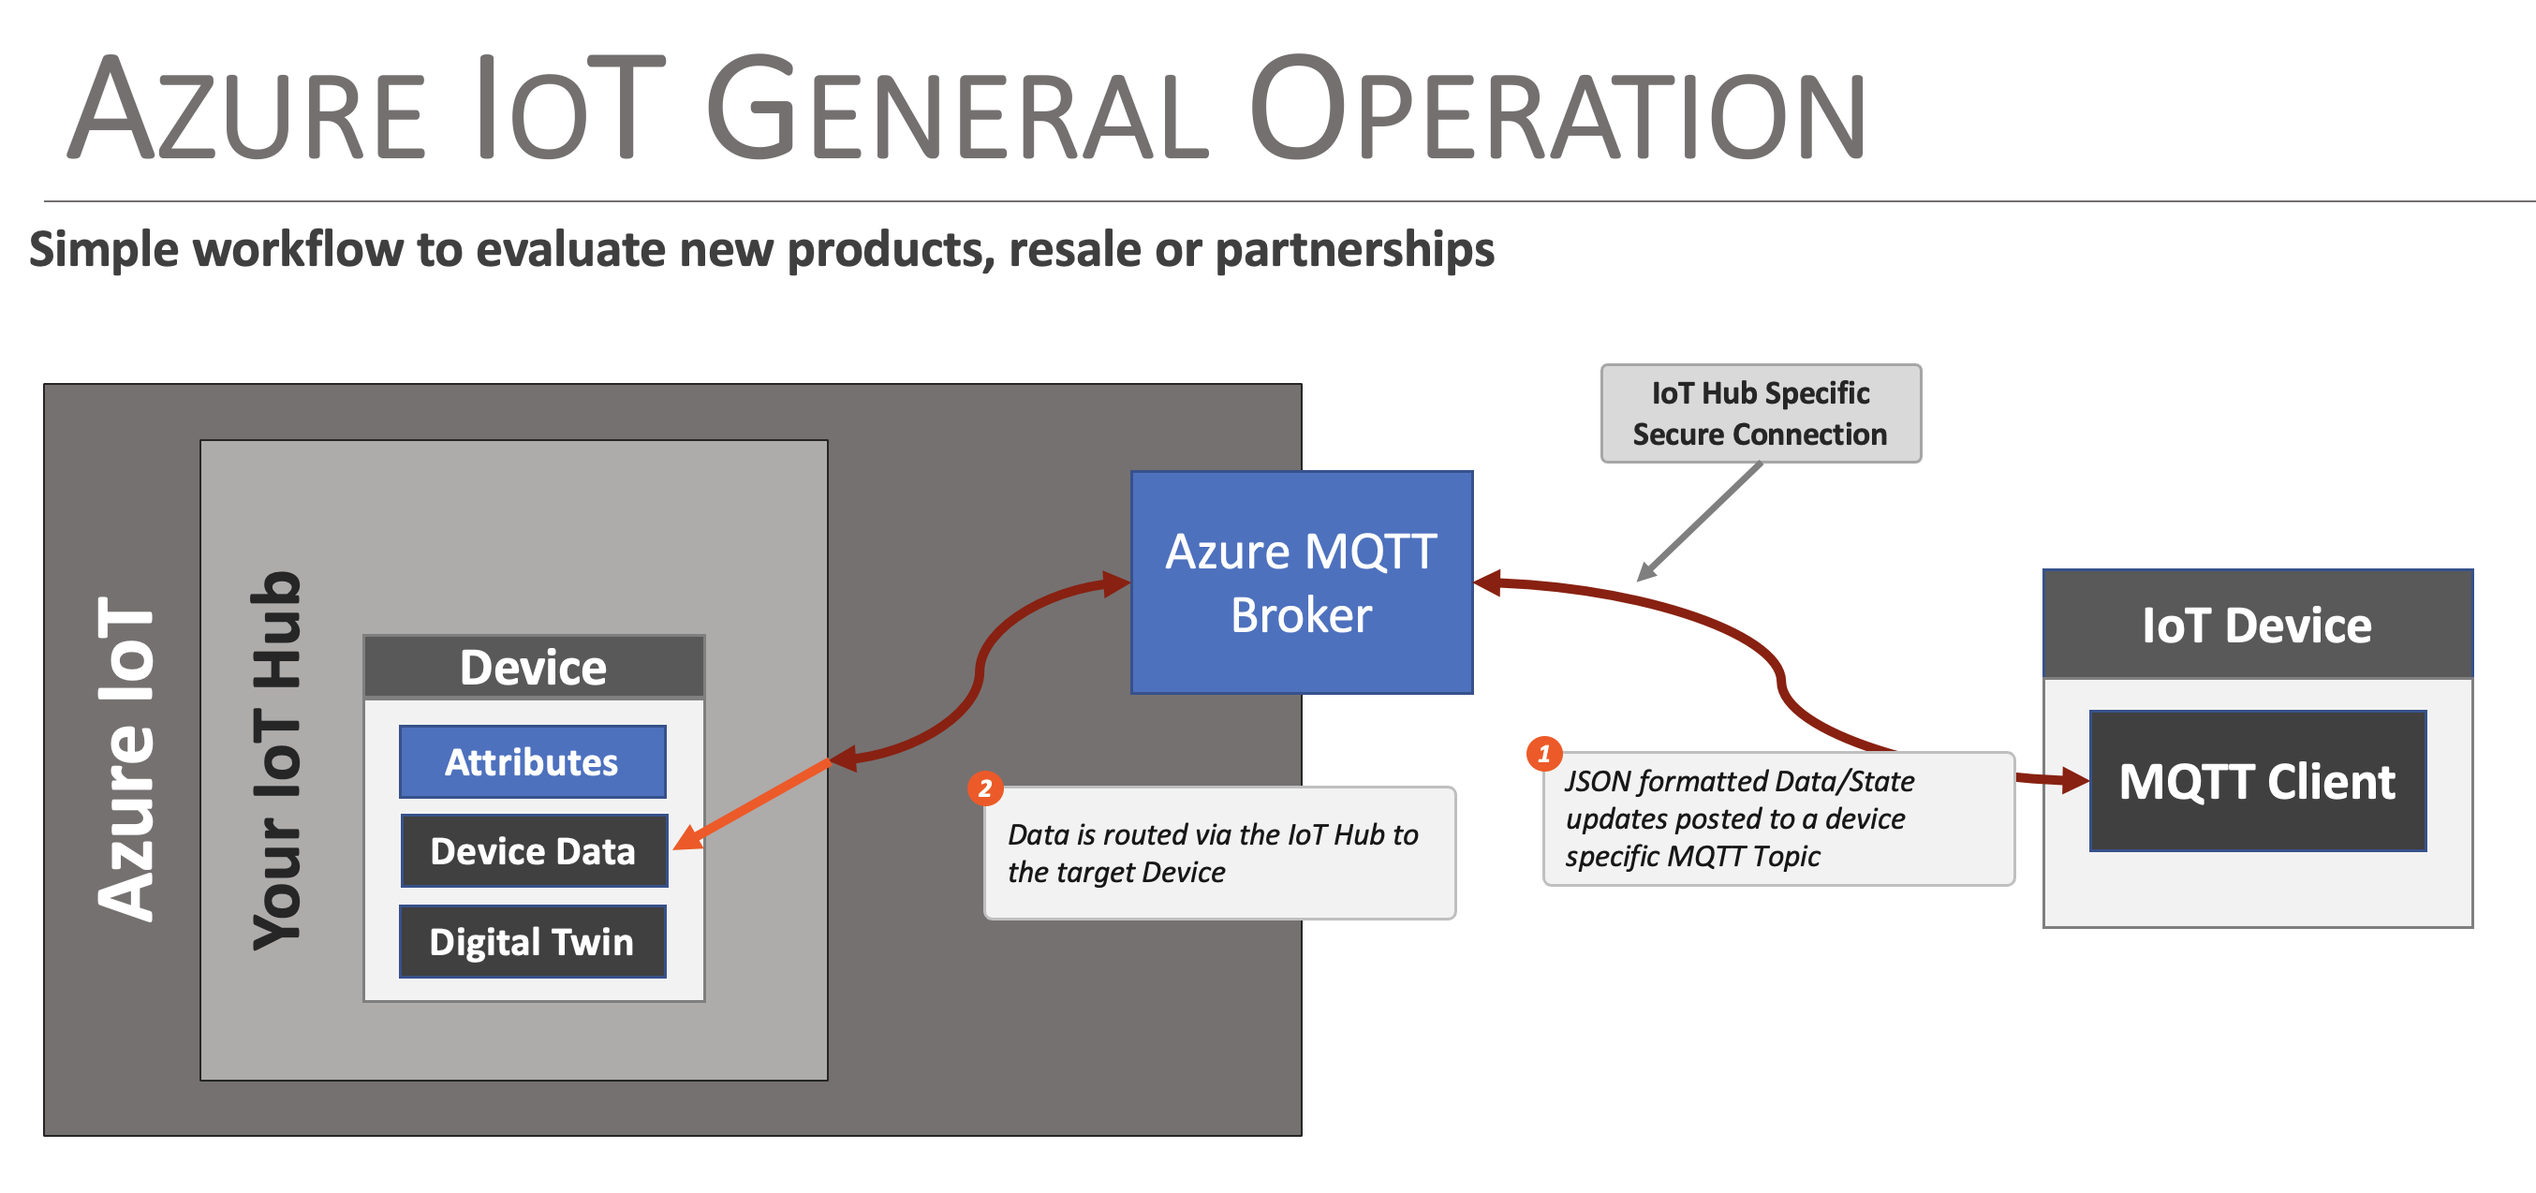
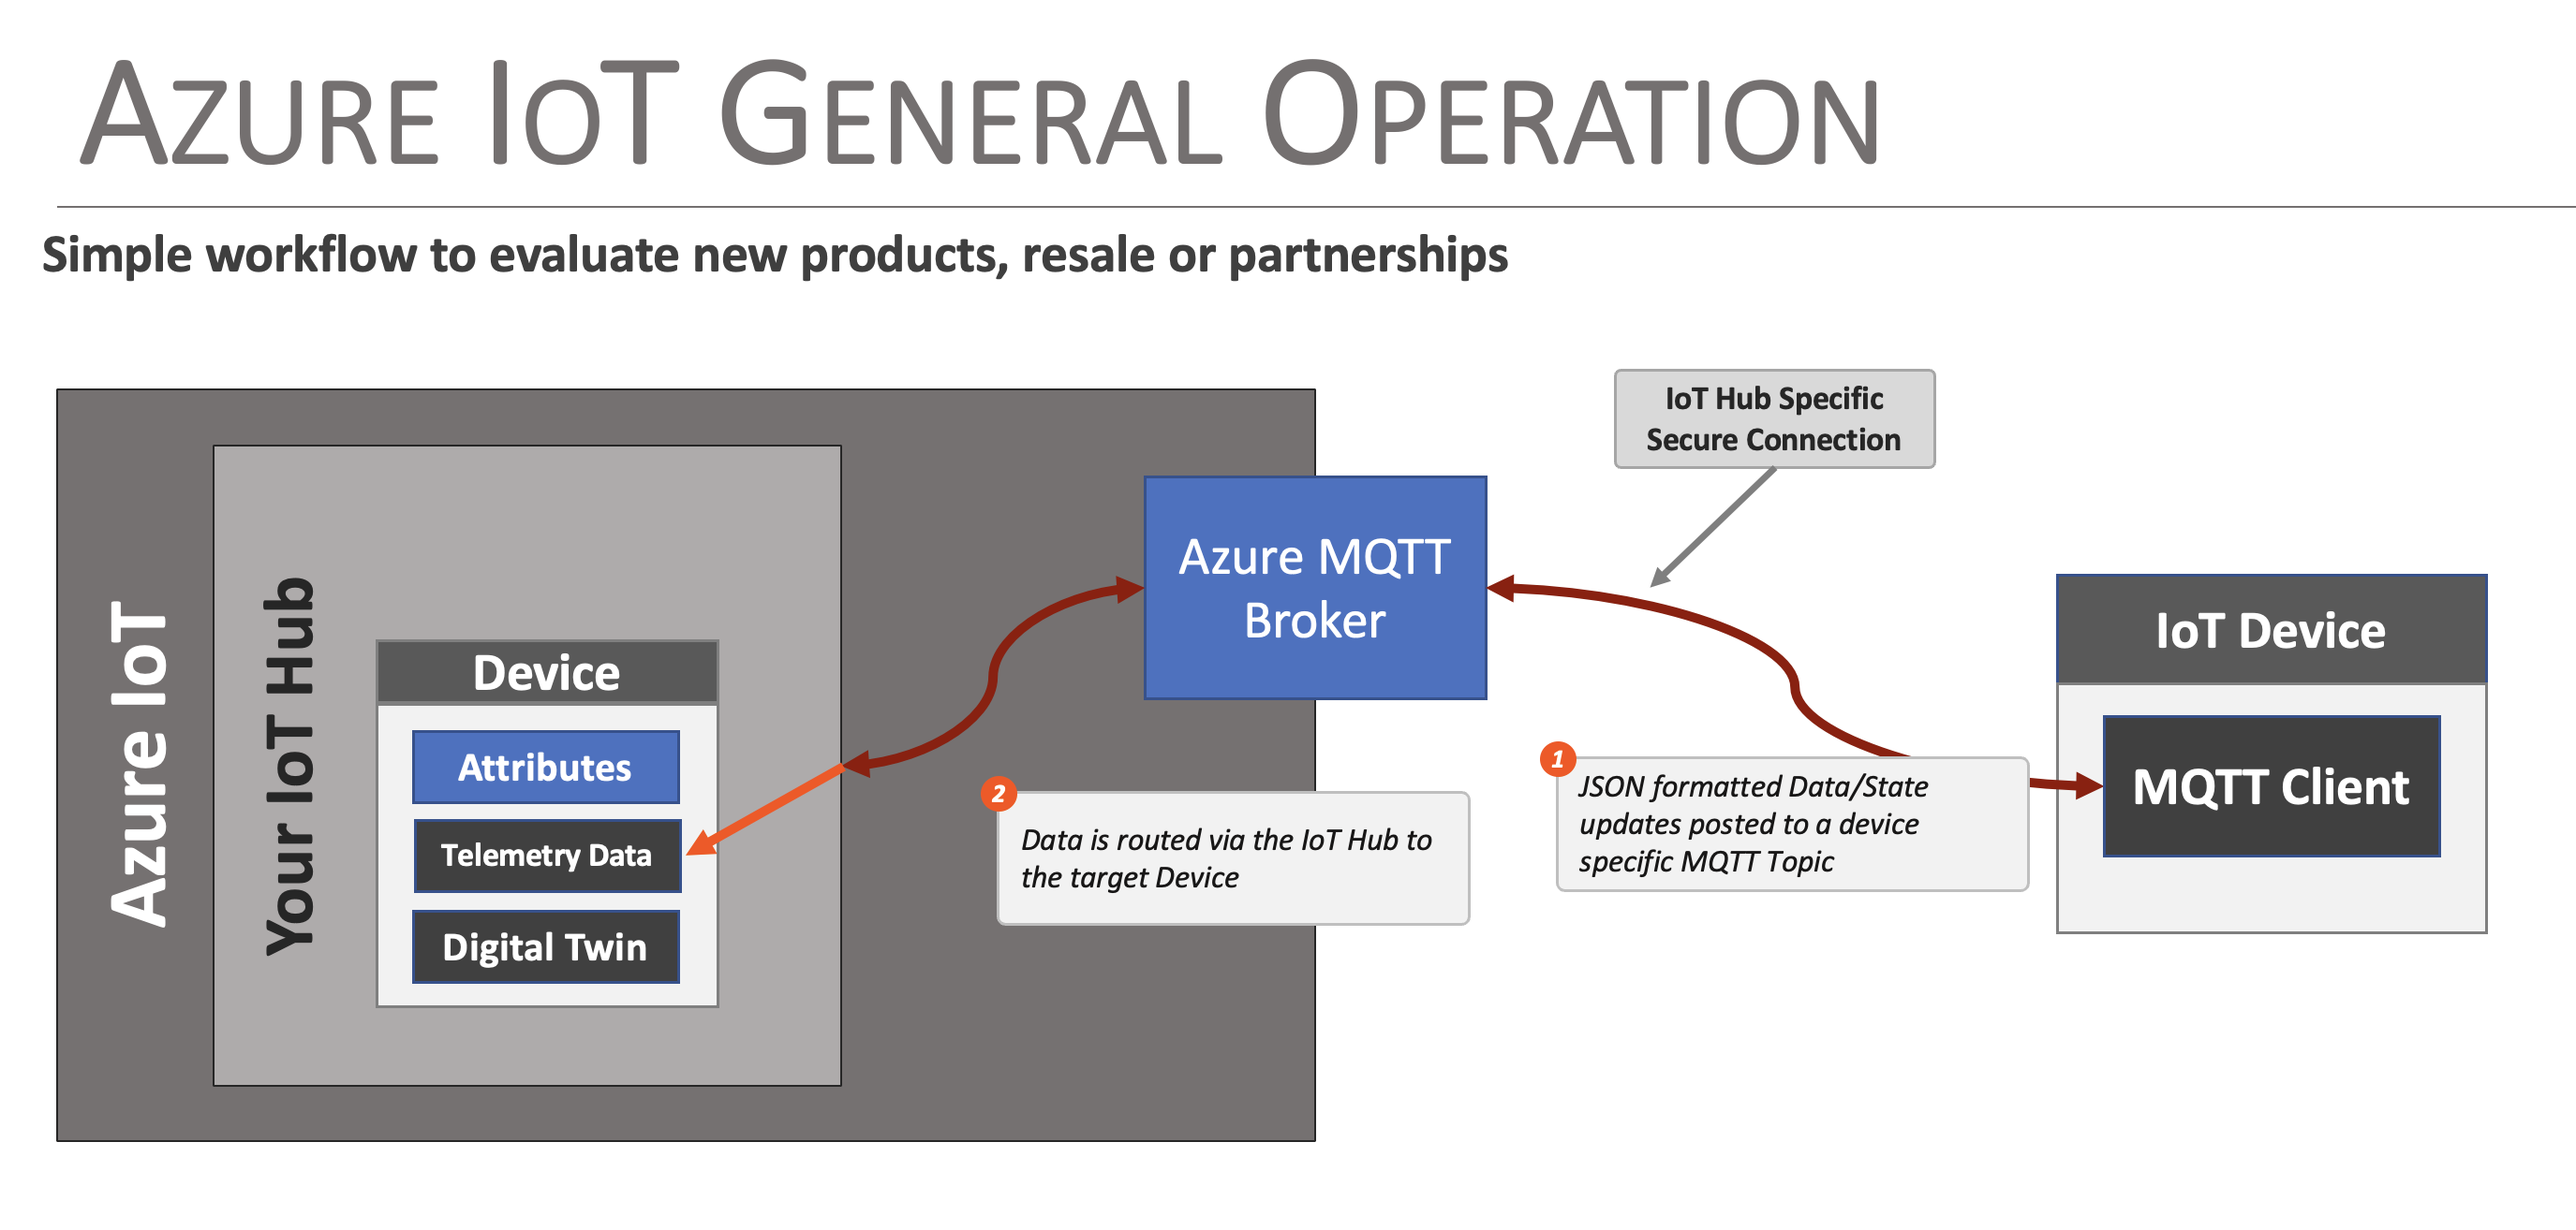
finished Azure docs

diff --git a/docs/iot_azure.md b/docs/iot_azure.md
@@ -165,11 +165,40 @@ The above property values must be set on the Flux Azure IoT object before use. T
   },
 ```
 
-## Operation
-Once the Flux-based device is configured and running, updates in AWS IoT are listed in the ***Activity*** tab of the devices page. For the test device in this document, this page looks like:
+## Operation and Monitoring
 
-![Shadow Activity](images/iot_aws_iot_shadow_updates.png)
+Once the Flux-based device is configured and running, the Azure IoT capability in Flux posts messages via MQTT to the connected Azure Device via it's IoT Hub. Messages to the device are posted as ***Telemetry Data*** for the device.
 
-Opening up an update, you can see the data being set to AWS IoT in a JSON format.
+The easiest method to view the Telemetry data being sent to an Azure Iot Device is via the Azure IoT Hub extension for the Visual Studio Code editor. 
 
-![Shadow Data](images/iot_aws_iot_shadow_data.png)
+![Azure IoT Hub Extension](images/iot_az_iot_hub_ext.png)
+
+Once installed, and connected to Azure via the Azure Account extension, you can connect to the target IoT Hub, and monitor telemetry data for a IoT device.
+
+### Connect to your Azure IoT Hub
+
+On the Explorer pain of Visual Studio Code, click on the **...** menu of the **AZURE IOT HUB** section. In the popup menu, select the **Select IoT Hub** menu entry. 
+
+![Select IoT Hub](images/iot_az_iot_hub_sel.png)
+
+The available IoT Hubs are displayed in the editors command prompt. Select the desired hub and press enter (or click).
+
+![Select IoT Hub](images/iot_az_iot_hub_sel_menu.png)
+
+The hub is then displayed in the **AZURE IOT HUB** section of the editor Explorer. Expanding the **Devices** section of the Hub will list the example device created above. 
+
+![Select IoT Hub](images/iot_az_iot_hub_exp.png)
+
+### Monitoring
+
+To monitor the telemetry data send to a device, right click on the device, ***TestDevice2023*** in this example, select the menu entry **Start Monitoring Build-in Event Endpoint**.
+
+![Start Monitoring](images/iot_az_iot_start_mon.png)
+
+Once selected, the editor output console will start displaying output for the selected device. For the above example, with a device that has environmental sensors attached, the output appears as follows:
+
+![Monitor Output](images/iot_az_iot_mon_output.png)
+
+To stop monitoring, click the **Stop Monitoring build-in event endpoint** item that is displayed in the status bar of the editor. 
+
+![Stop Monitoring](images/iot_az_iot_stop_mon.png)
